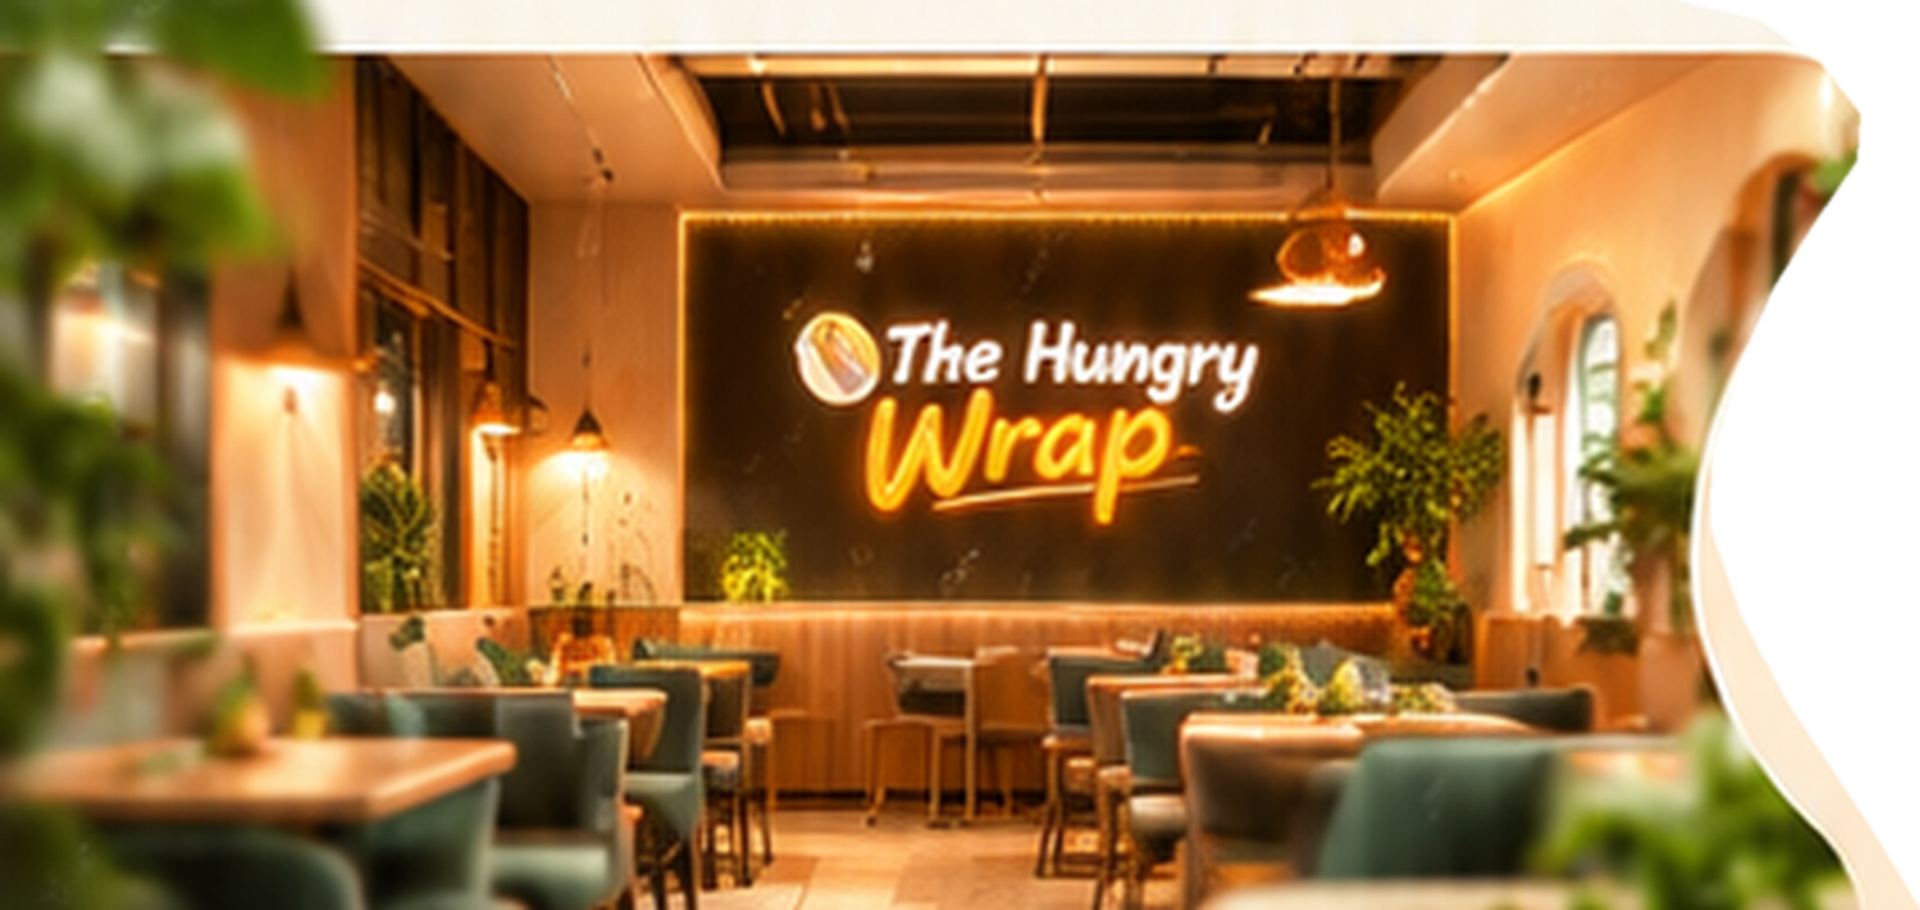
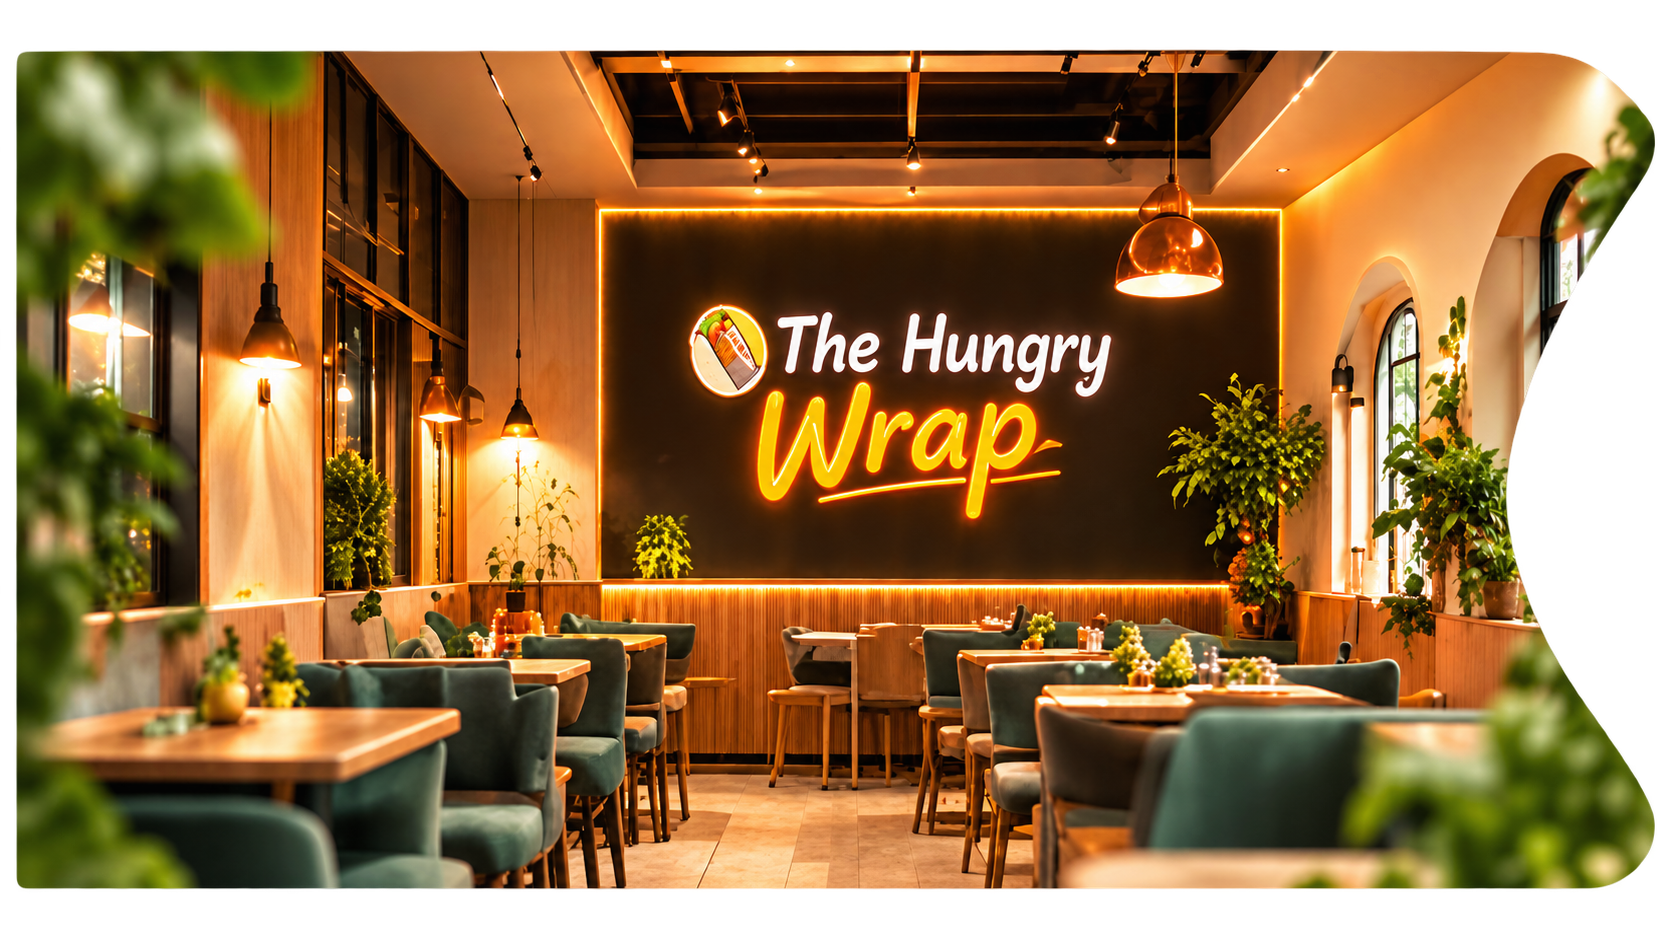
Replace the Our Story restaurant photo
The new cutout is sharper and, unlike the previous one, carries no baked
cream band along its top edge, so the photo no longer meets the section
background in a straight line.

It arrived saved as `01_restaurant_organic_cutout.png.png`. The double
extension meant assets.ts pointed at a path that no longer existed and the
photo 404'd, so the filename is corrected here and the recorded intrinsic
size updated to the replacement's 1672x941.

diff --git a/src/components/hungry-wrap/our-story/assets.ts b/src/components/hungry-wrap/our-story/assets.ts
@@ -16,8 +16,8 @@ const asset = (file: string, width: number, height: number, alt = ""): OurStoryA
 export const OUR_STORY_ASSETS = {
   restaurant: asset(
     "01_restaurant_organic_cutout.png",
-    1920,
-    910,
+    1672,
+    941,
     "A warmly lit restaurant interior concept with The Hungry Wrap sign",
   ),
   leafTop: asset("02_leaf_top.png", 444, 880),
